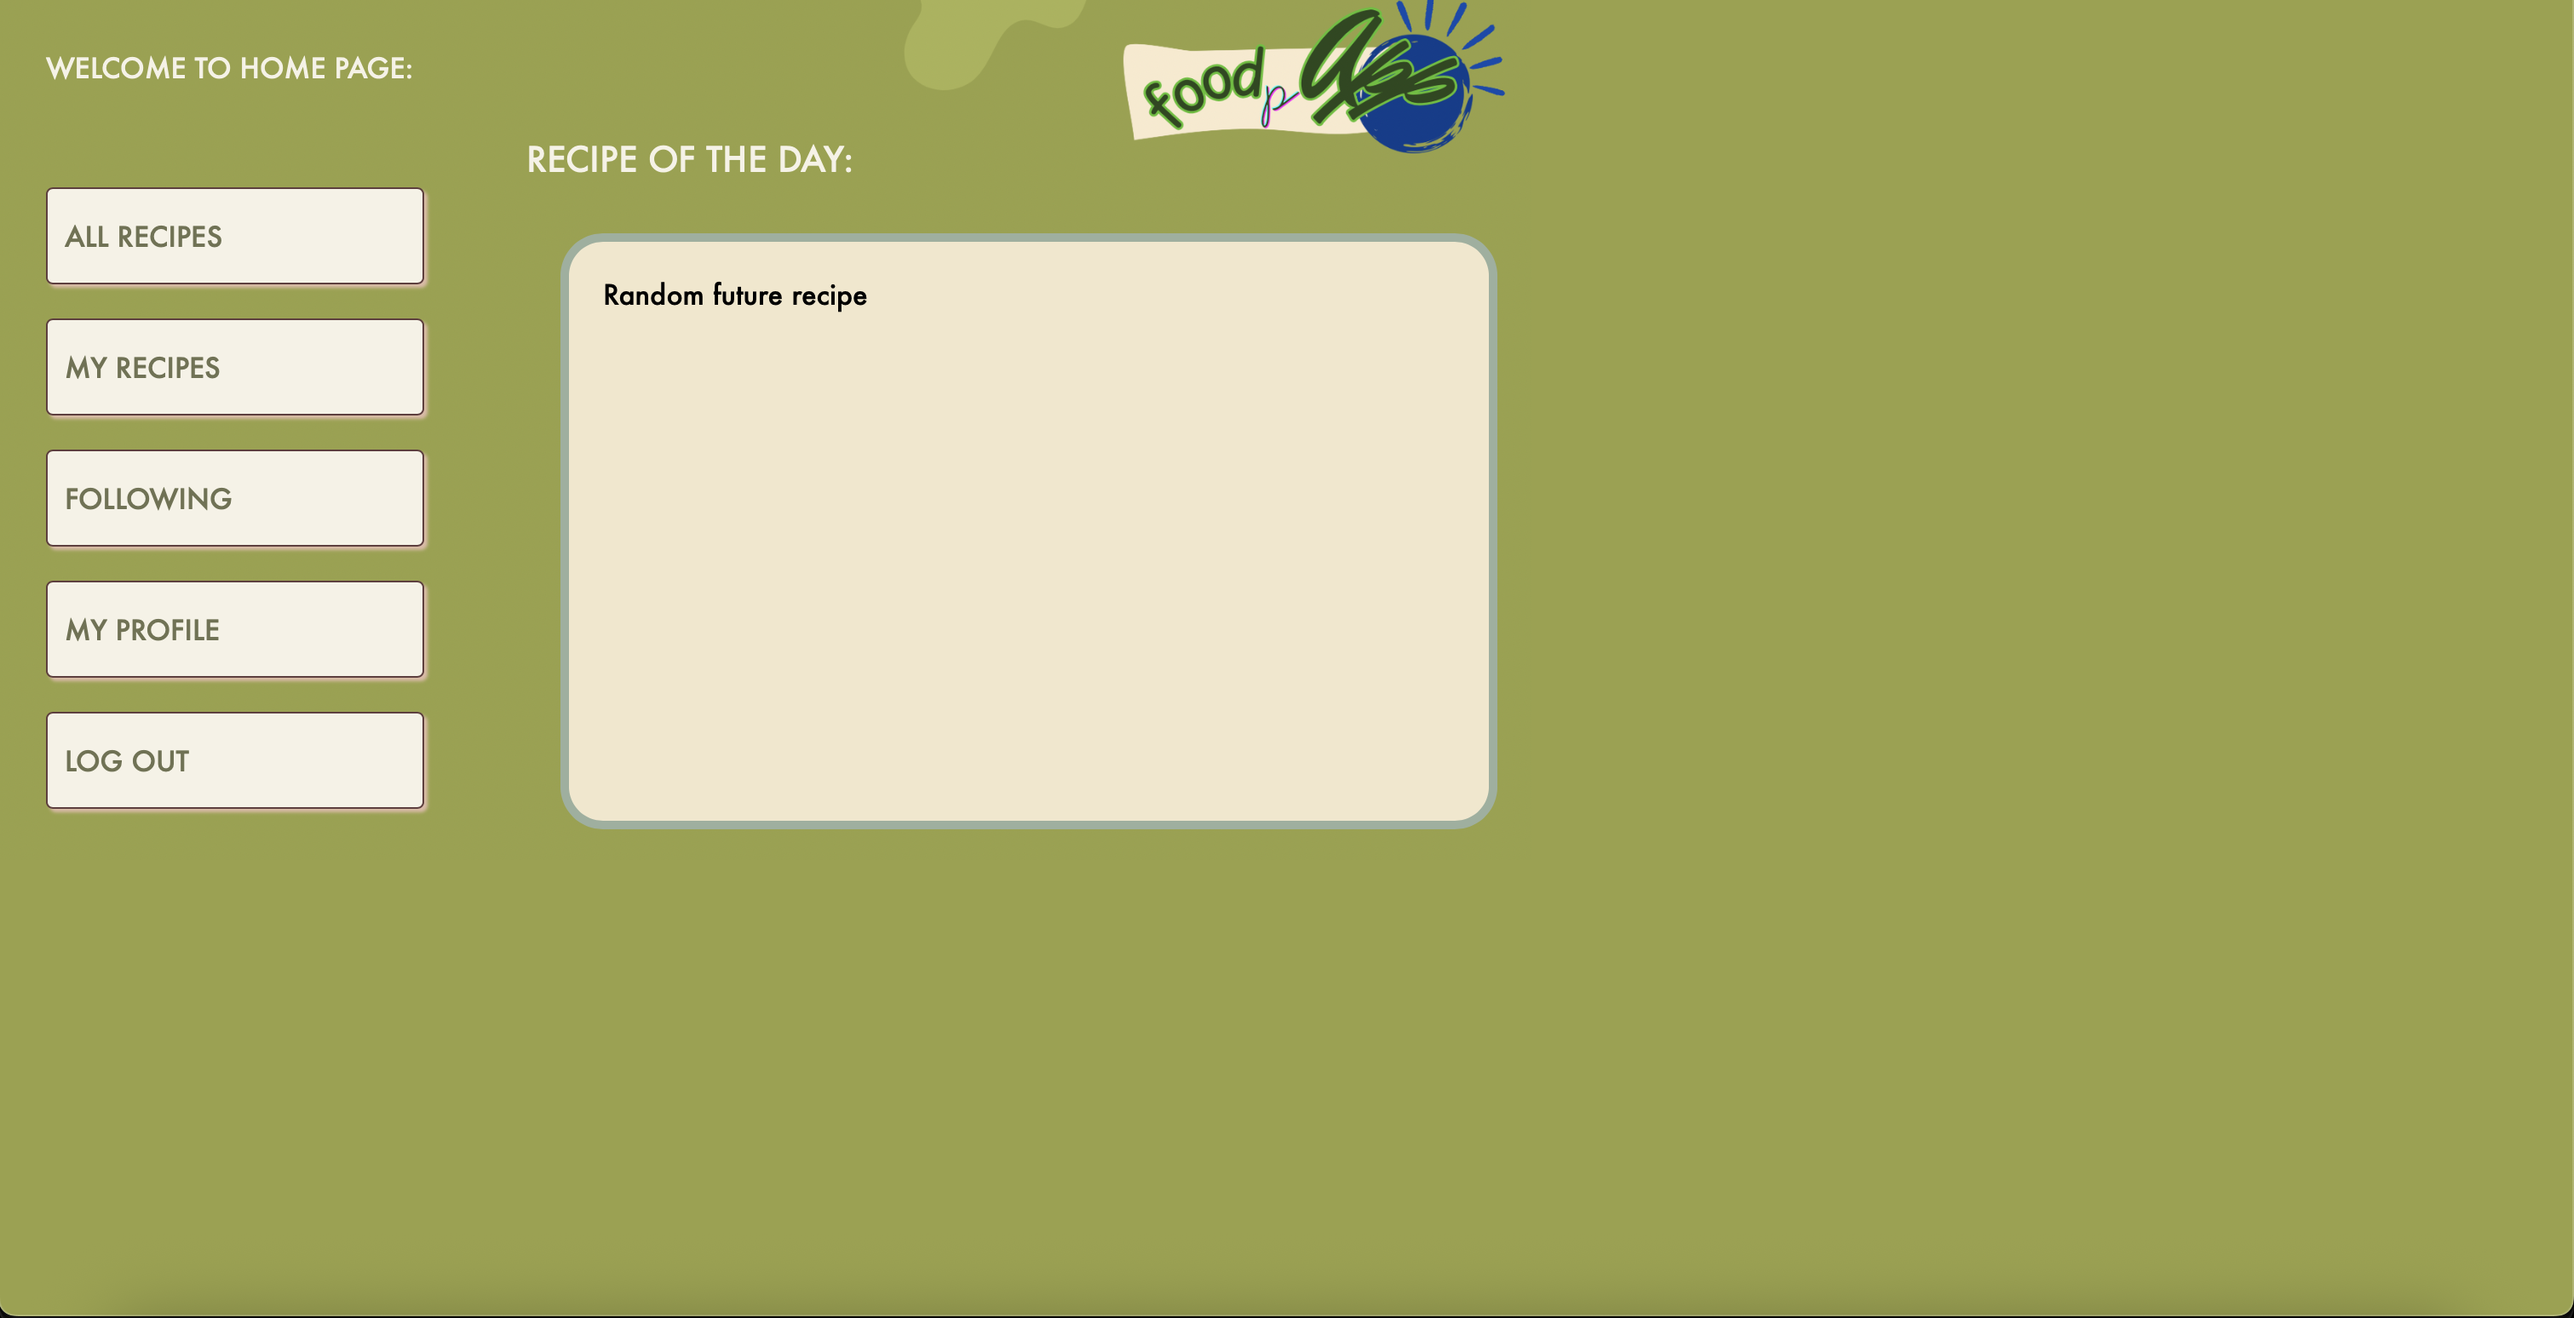
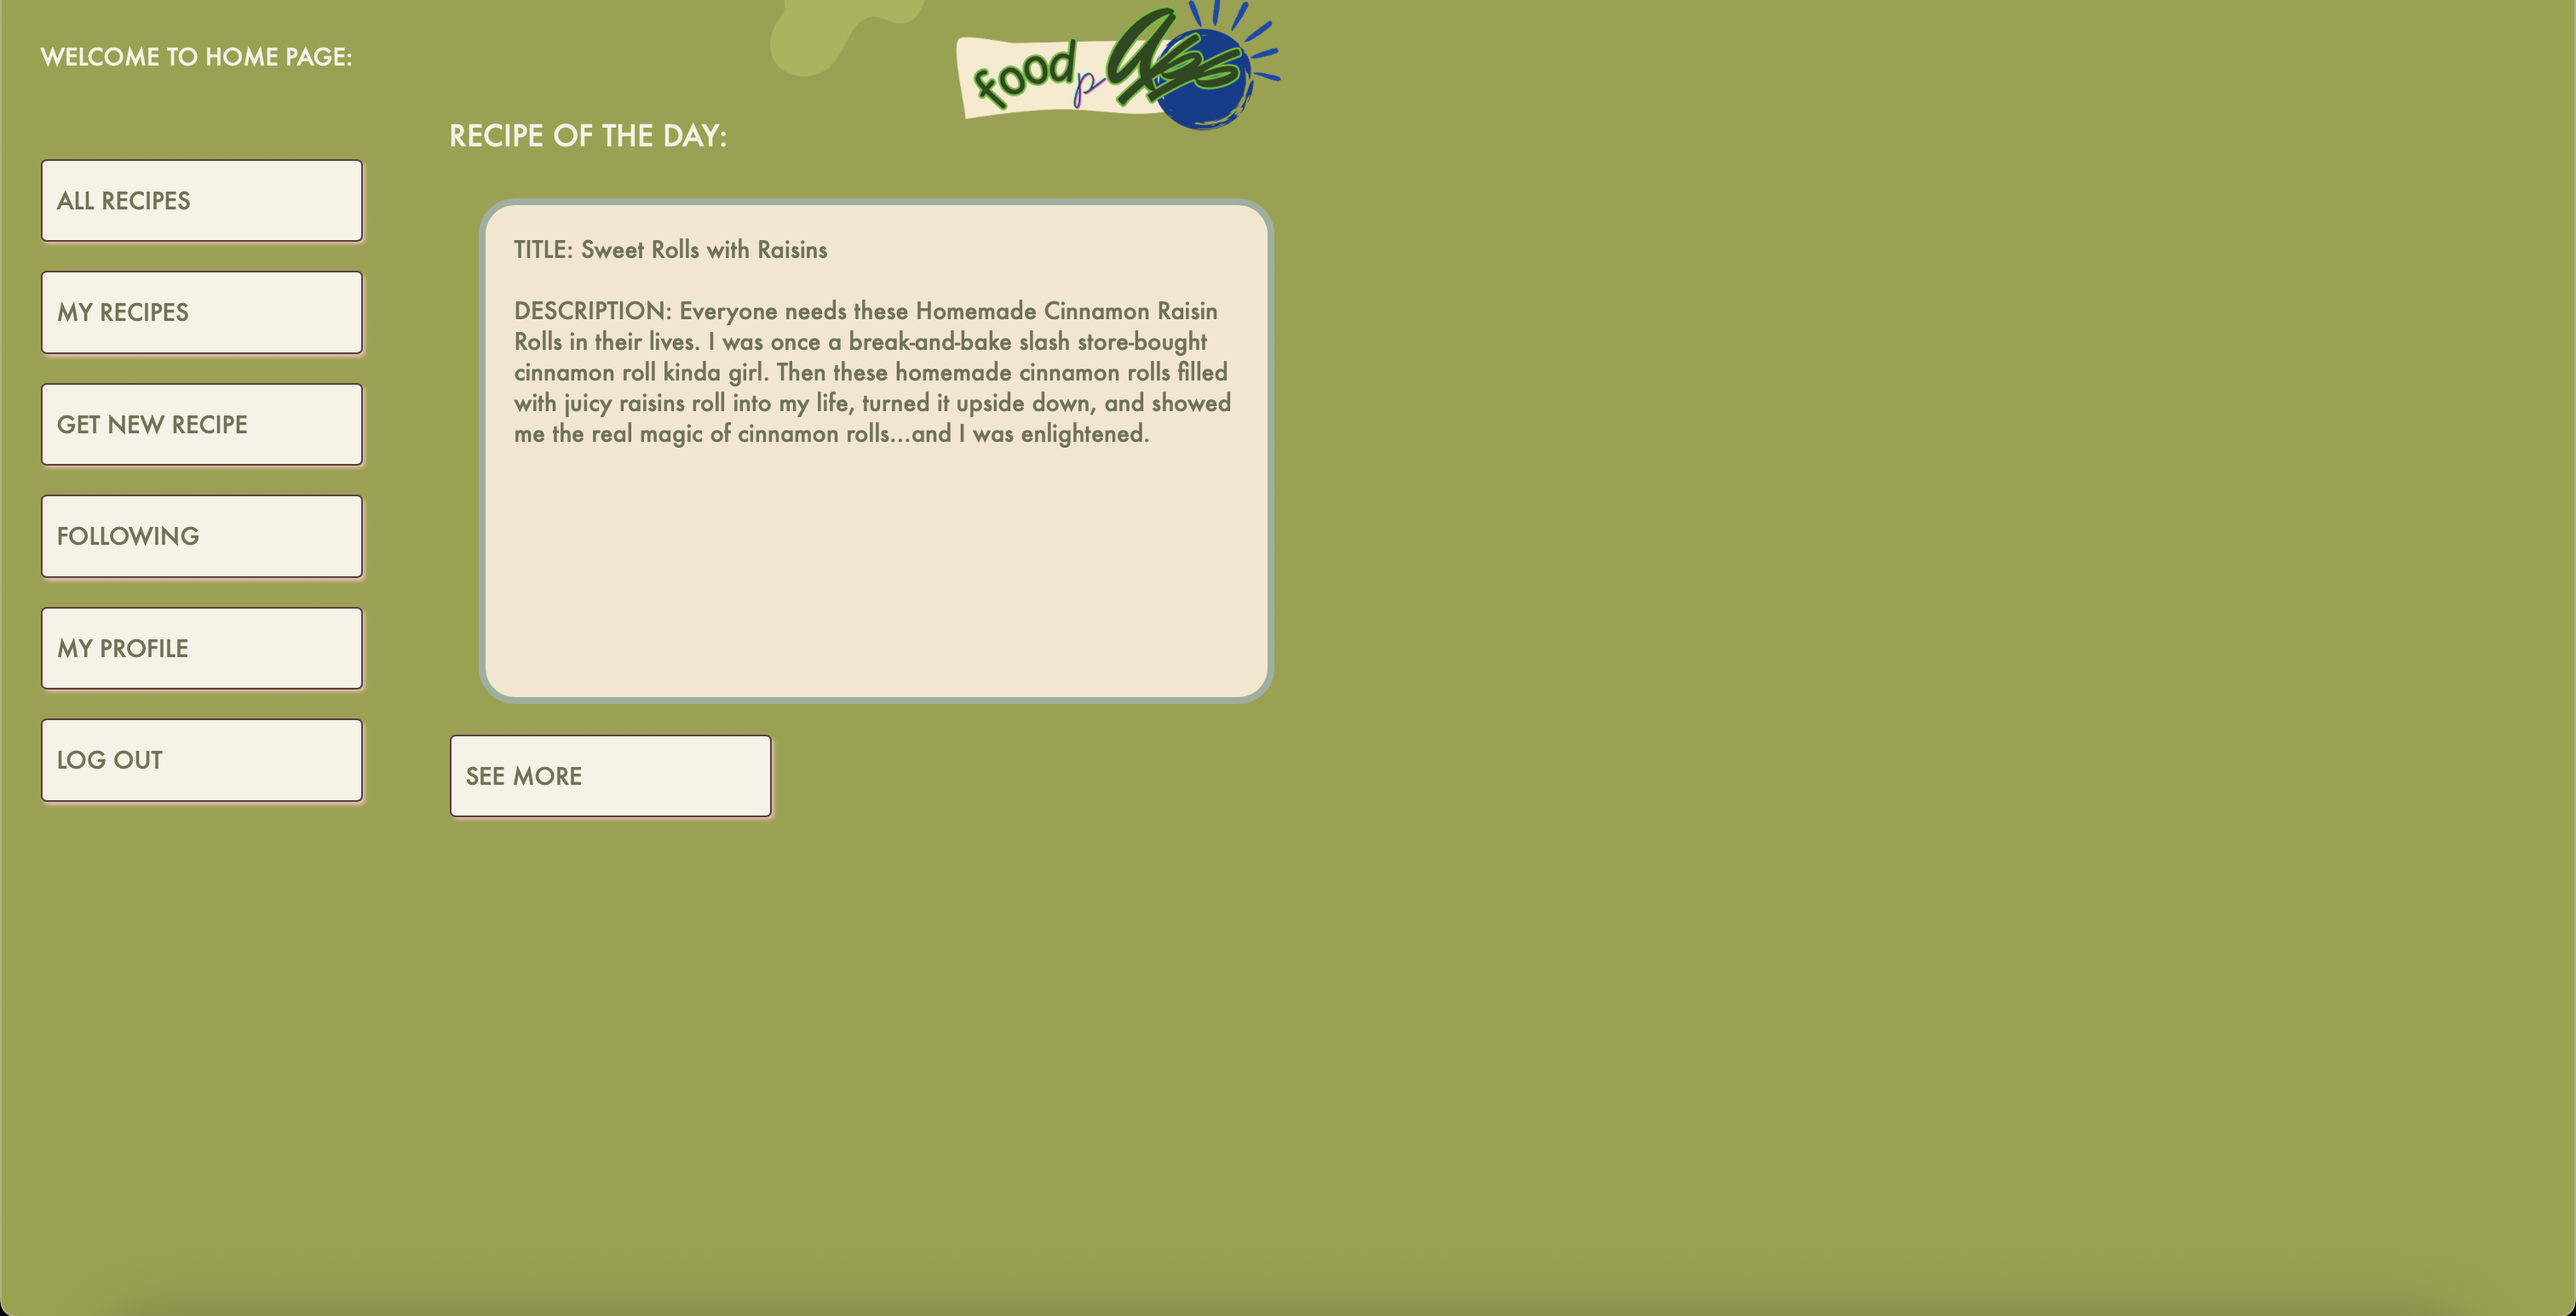
Update readme.md file, requirements.md file

Changed region(s): [[0.0, 0.0, 0.591, 0.652], [0.0, 0.9935, 1.0, 1.0], [0.0, 0.031, 0.1555, 0.0621]]

diff --git a/requirements.md b/requirements.md
@@ -14,9 +14,9 @@
 13. Users can save or 'favorite' recipes for quick access later.
 14. Homepage or main recipe list shows all recipes available in the database.
 15. Users can filter recipes by tags like 'vegan', 'dessert', etc.
-16. User is logged in can see the profile and recipes of another user.
+16. User can have get a randomly generated recipe.
 17. User is able to delete their profile and all of their recipes will be auto deleted.
-18. User can set or update one single favorite other user.
+18. User can see random recipe of the day in homepage.
 
 ## Non-functional Requirements
 1. The system must use SQL for the database
@@ -376,23 +376,28 @@
 		- User has to select a different recipe that has a tag
 		
     ---
-16. **Use Case Name:** View Another Profile
-- **Summary:** User is logged in can see the profile and recipes of another user.
+16. **Use Case Name:** Get randomly genrated recipe
+- **Summary:** User can have get a randomly generated recipe.
 - **Actor(s):** User, System
-- **Pre-condition:** More than one user exists
-- **Trigger:** User clicks on another user’s username **Tag Name** link
+- **Pre-condition:** User is logged in
+- **Trigger:** User clicks on **Get new recipe** button.
 - **Primary Sequence:**
 	1. User logs in
-	2. User clicks “recipes”
-	3. User clicks any particular recipe not created by them
-	4. System displays recipe creator’s name
-	5. User clicks on the creator’s name
-	6. System displays the profile with that user’s recipes
+	2. User clicks “Get new recipe”
+	3. System makes a call to an API and retrieve data for a new recipe
+	4. System displays the new recipe's data
+	5. User clicks **Add to my recipe**
+	6. System redirects users to create a new recipe page, with title, description, ingredients, instructions fields filled out.
+    7. User clicks **Submit recipe**.
+    8. System stores new recipe into database.
+    9. System redirects user to homepage.
 
-- **Primary Post-conditions:** User can see the recipes of the creator whose name they clicked on
+- **Primary Post-conditions:** System stores new recipe generated by API into database.
 - **Alternate Sequence:**
-	- **5a. System has no recipes created by other users, only default ones:**
-		- User has to select a different recipe
+	- **5a. User clicks 'Return'**
+		- System redirects user to homepage.
+    - **7a. User clicks 'Home'**
+		- System redirects user to homepage.
 	---
 
 17. **Use Case Name:** Delete Profile
@@ -413,33 +418,6 @@
 	- **1a. User forgot their password:**
 		- User resets the password
 	---
-
-
-18. **Use Case Name:** Follow Another Profile
-- **Summary:** User can set or update one single favorite other user.
-- **Actor(s):** User, System
-- **Pre-condition:** More than one user exists
-- **Trigger:** User clicks on **Follow** link
-- **Primary Sequence:**
-	1. User logs in
-	2. User clicks “recipes” link
-	3. User selects any recipe they want
-	4. System shows that recipe’s page with the name of the creator
-	5. User clicks on the creator’s name
-	6. System takes user to the creator’s profile
-	7. User clicks **Follow** link
-
-- **Primary Post-conditions:** User is able to see the recipes of the followed user on “recipes” page above other users recipes 
-- **Alternate Sequence:**
-	- **1a. User forgot their password:**
-		- User resets the password
-	- **7a. User does not want to follow and does not click on Follow:**
-		- User can click on *My Profile* or *Home* to be taken there.
-	- **7b. User clicks *follow* when they already have a follow:**
-		- User loses the old follow, because the new one replaces the old one
-	-**7c. User clicks “follow” when they are already following that user:**
-		- User instead unfollows that user
-
 ## Mockups
 
 ### Login Page

diff --git a/readme.md b/readme.md
@@ -8,39 +8,53 @@ A collaborative recipe-sharing web application created by:
 
 ---
 
-## 🚀 Milestone 2 Updates
+## 🚀 Milestone 3 Updates
 
 ### ✅ Summary
-- Completed 9 functional requirements: **1, 2, 3, 4, 5, 6, 7, 11, 14**.
-- Basic user interface implemented.
-
+- Completed 18 functional requirements.
 ---
 
 ## 🛠 Individual Contributions
 
+**Summary of implemented requirements:**
+- **Le Duy Nguyen:** 1, 2, 3, 11, 12, 13, 16, 17, 18
+- **Angelina Ryabechenkova:** 7, 8, 14, 15
+- **Jason Nguyen:** 4, 5, 6, 9, 10
+
+---
+
 ### **Le Duy Nguyen**
-- Developed User model.
-- Implemented functionalities:
-  - User account creation (username, email, password).
-  - User login/logout with secure authentication.
-- Integrated functionalities with UI.
+
+**Implemented:**
+- A visitor can create an account by providing a username, email, and password.  
+- Registered users can log in using their email and password.  
+- Logged-in users can log out of their account securely.  
+- Users can view their own profile, including their submitted recipes.  
+- Users can update their display name, email, or password.  
+- Users can save or 'favorite' recipes for quick access later.  
+- User can get a randomly generated recipe.  
+- User is able to delete their profile and all of their recipes will be auto-deleted.  
+- User can see a random recipe of the day on the homepage.  
 
 ### **Angelina Ryabechenkova**
-- Developed and refined UI design.
-- Collaborated with Jason Nguyen to implement:
-  - Adding new recipes (title, description, ingredients, instructions).
-  - Updating user-created recipes.
-- Independently implemented:
-  - Viewing detailed recipes (ingredients and instructions).
-  - Homepage displaying all available recipes.
-- Handled ethics-related discussions and documentation.
+
+**Developed and refined UI design.**  
+**Handled ethics-related discussions and documentation.**
+
+**Implemented:**
+- Anyone can view the details of a recipe including ingredients and instructions.  
+- Users can search recipes by title or ingredient keywords.  
+- Homepage or main recipe list shows all recipes available in the database.  
+- Users can filter recipes by tags like 'vegan', 'dessert', etc.  
 
 ### **Jason Nguyen**
-- Developed Recipe model.
-- Lead developer for functionalities:
-  - Adding new recipes.
-  - Updating user-created recipes.
-  - Deleting user-created recipes.
+
+**Implemented:**
+- Logged-in users can add new recipes with title, description, ingredients, and instructions.  
+- Users can update their own recipes after creation.  
+- Users can delete their own recipes.  
+- Users can rate a recipe from 1 to 5 stars.  
+- Users can leave comments on a recipe.  
 
 ---
 
@@ -110,11 +124,10 @@ pip install -r requirements.txt
 - Profile page includes account information:
   ![User Profile](images/web-myprofile.png)
 
-### **Functionalities Status**
+### **Recipe View**
+- Recipe page includes comments and ratings:
+  ![Recipe View](images/web-viewrecipe.png)
 
-| Working ✅                      | Not Working ⚠           |
-|---------------------------------|---------------------------|
-| Login/Logout                    | Delete User Profile       |
-| Add, Update, Delete Recipes     | Follow Users (Coming soon)|
-| View Recipes (All & Personal)   |                           |
-
+### **Random Recipe View**
+- Recipe from API includes picture, YouTube, source links
+  ![Random Recipe View](images/web-API.png)
